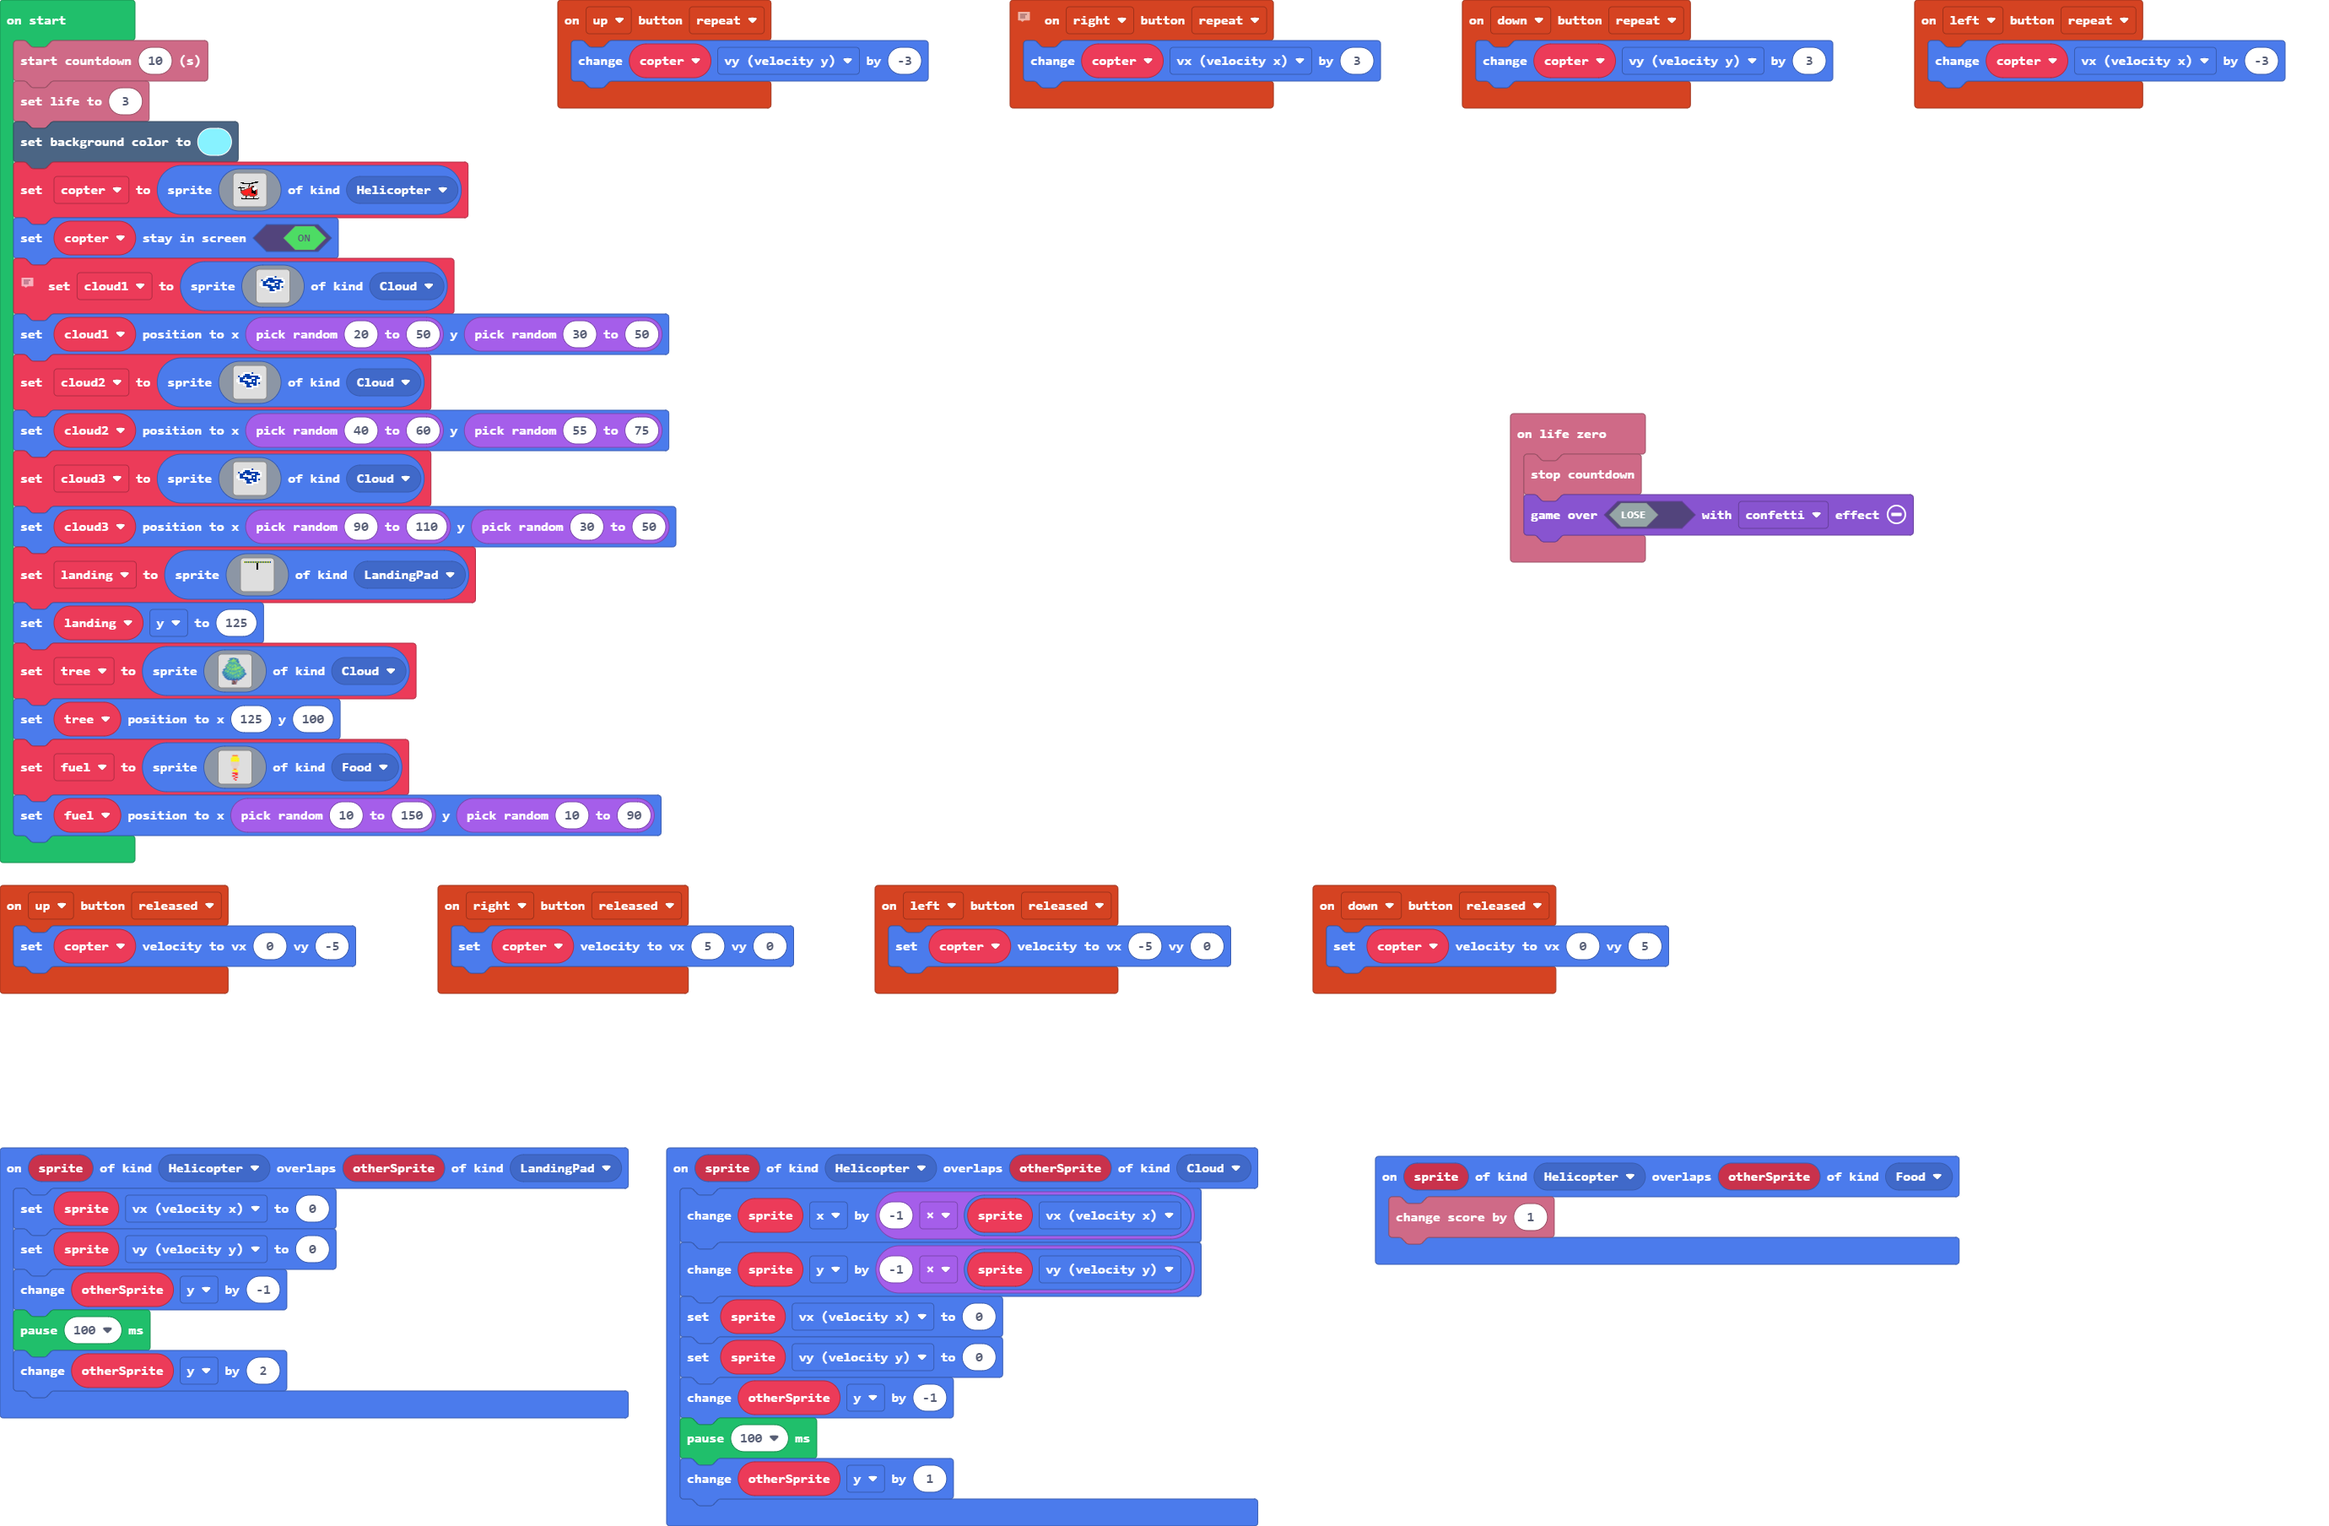
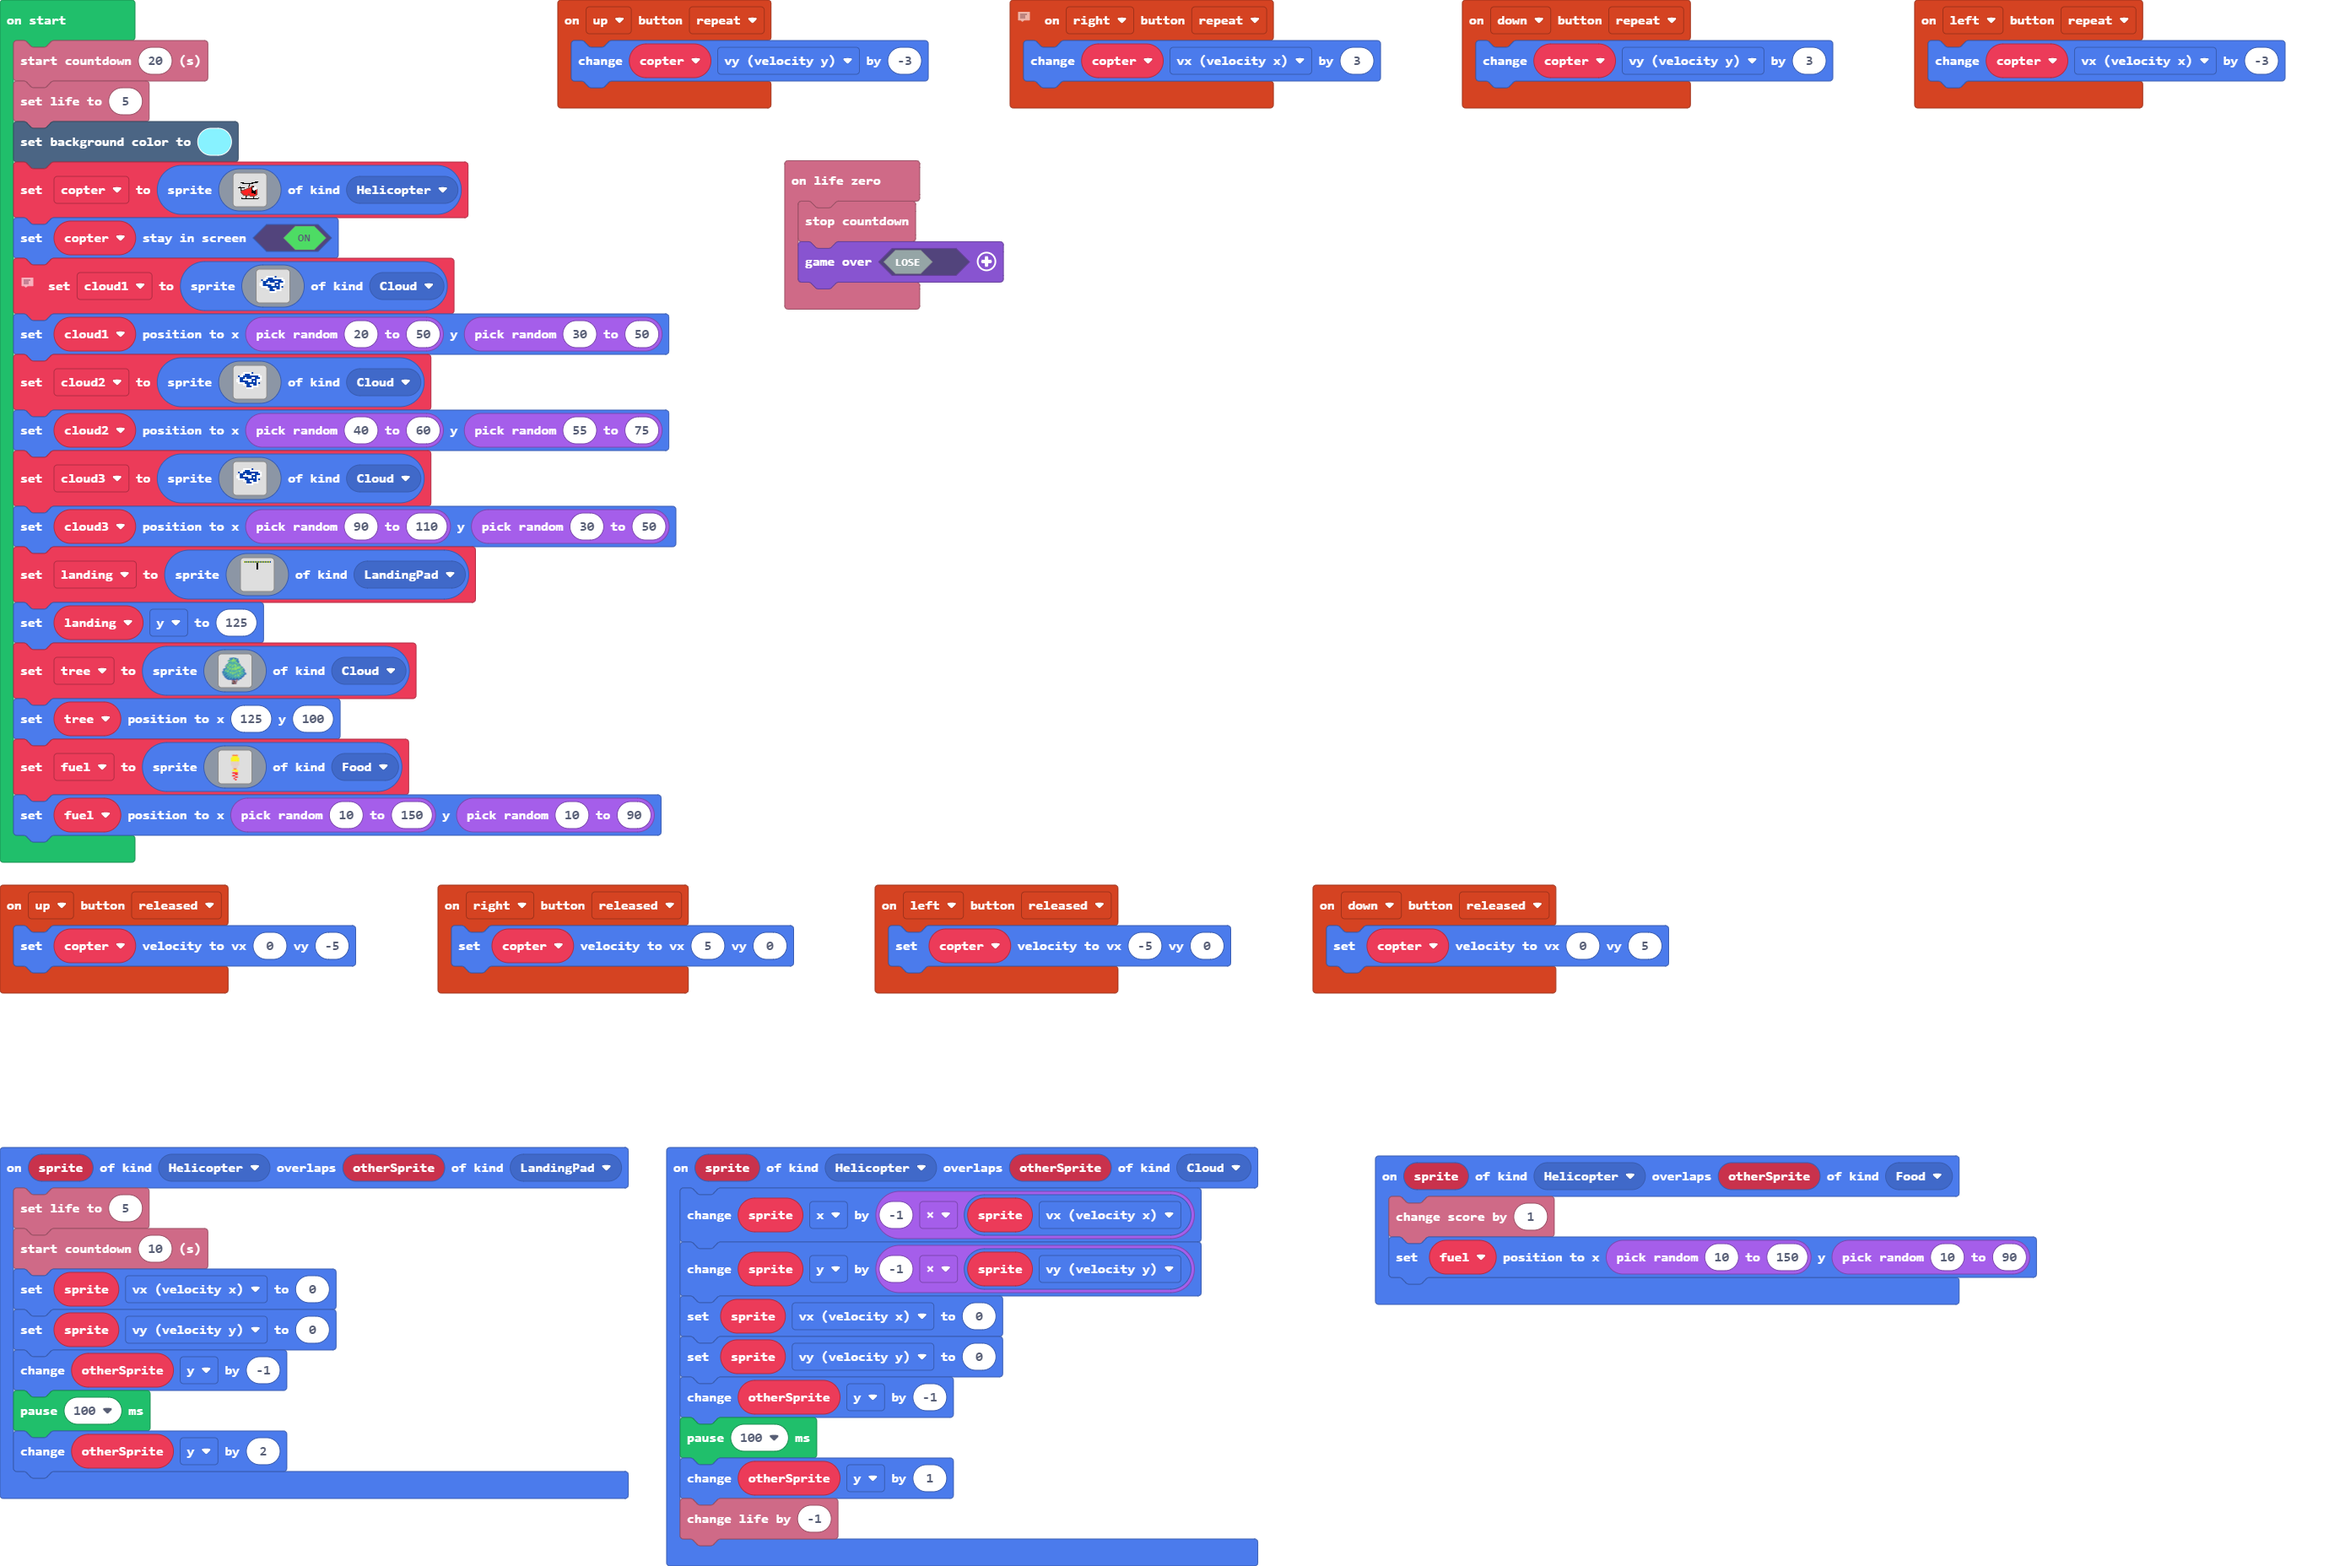
Update main.blocks, main.ts

diff --git a/main.ts b/main.ts
@@ -4,6 +4,8 @@ namespace SpriteKind {
     export const LandingPad = SpriteKind.create()
 }
 sprites.onOverlap(SpriteKind.Helicopter, SpriteKind.LandingPad, function (sprite, otherSprite) {
+    info.setLife(5)
+    info.startCountdown(10)
     sprite.vx = 0
     sprite.vy = 0
     otherSprite.y += -1
@@ -34,6 +36,7 @@ sprites.onOverlap(SpriteKind.Helicopter, SpriteKind.Cloud, function (sprite, oth
     otherSprite.y += -1
     pause(100)
     otherSprite.y += 1
+    info.changeLifeBy(-1)
 })
 controller.up.onEvent(ControllerButtonEvent.Released, function () {
     copter.setVelocity(0, -5)
@@ -43,17 +46,19 @@ controller.down.onEvent(ControllerButtonEvent.Repeated, function () {
 })
 sprites.onOverlap(SpriteKind.Helicopter, SpriteKind.Food, function (sprite, otherSprite) {
     info.changeScoreBy(1)
+    fuel.setPosition(randint(10, 150), randint(10, 90))
 })
 info.onLifeZero(function () {
     info.stopCountdown()
-    game.over(false, effects.confetti)
+    game.over(false)
 })
 controller.left.onEvent(ControllerButtonEvent.Repeated, function () {
     copter.vx += -3
 })
+let fuel: Sprite = null
 let copter: Sprite = null
-info.startCountdown(10)
-info.setLife(3)
+info.startCountdown(20)
+info.setLife(5)
 scene.setBackgroundColor(9)
 copter = sprites.create(img`
     ................................
@@ -227,7 +232,7 @@ let tree = sprites.create(img`
     ...............ffceec...............
     `, SpriteKind.Cloud)
 tree.setPosition(125, 100)
-let fuel = sprites.create(img`
+fuel = sprites.create(img`
     ....................
     ........4444........
     ........5555........
